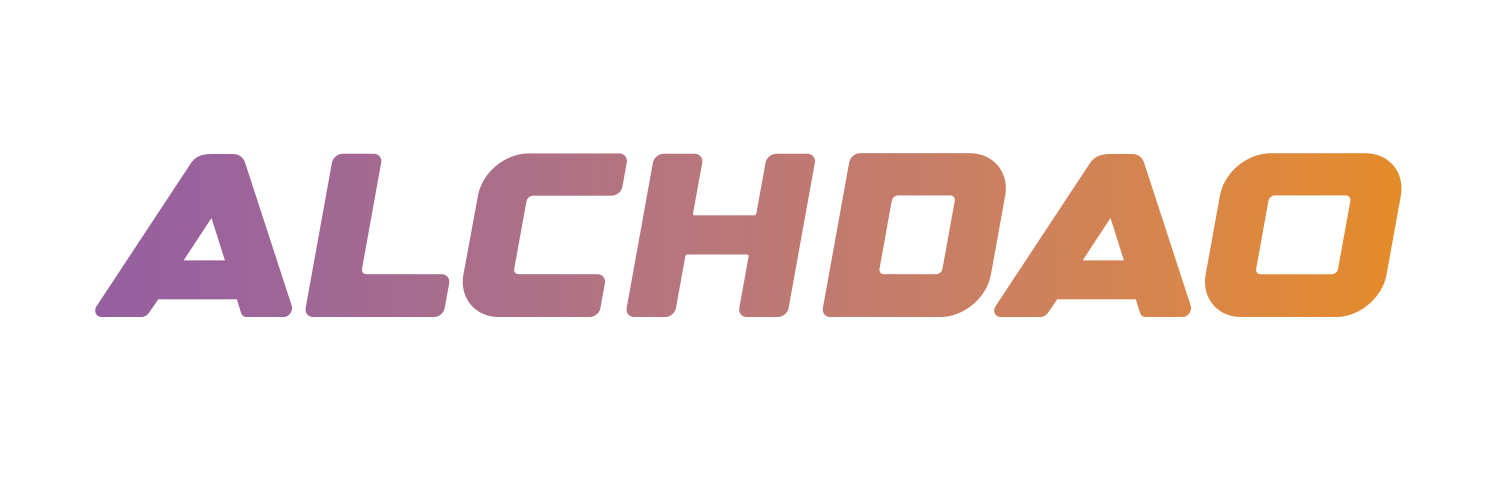
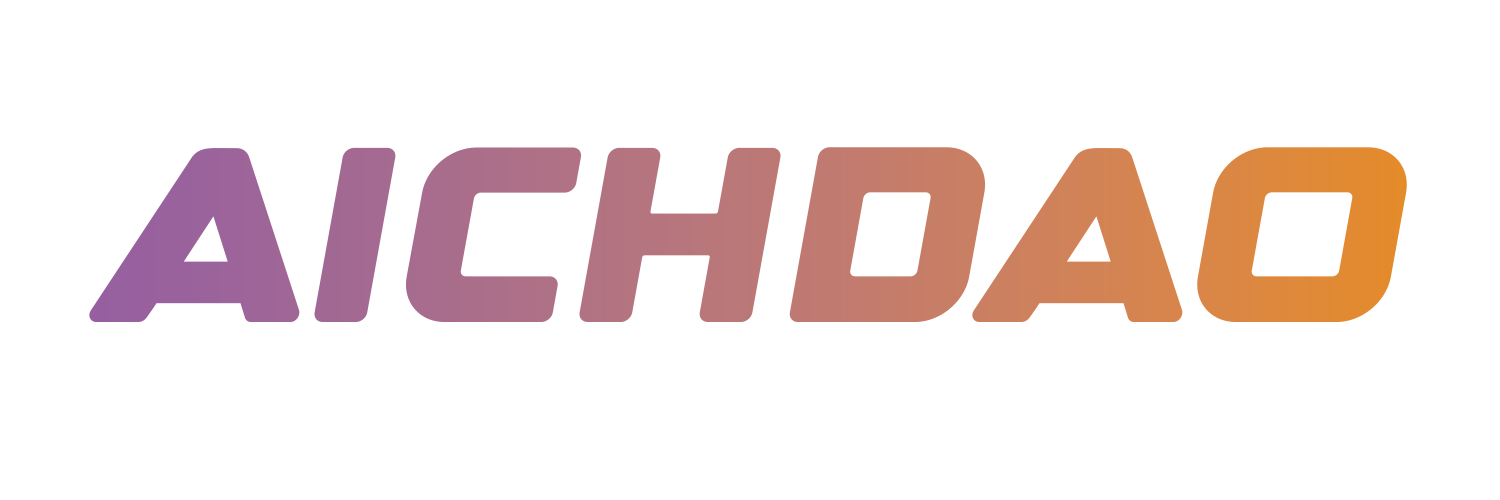
website

diff --git a/index.htm b/index.htm
@@ -8,10 +8,10 @@
     <meta http-equiv="X-UA-Compatible" content="IE=edge">
 
     <!-- Essential SEO -->
-    <title>ALCHDAO AI</title>
-    <meta name="description" content="Anon, always followed ALCHDAO. Celebrating the green candle spirit with our crypto community-driven. ALCHDAO blends meme culture with cutting-edge on-chain AI technology">
+    <title>AICHDAO AI</title>
+    <meta name="description" content="Anon, always followed AICHDAO. Celebrating the green candle spirit with our crypto community-driven. AICHDAO blends meme culture with cutting-edge on-chain AI technology">
     <link rel="image_src" href="android-chrome-512x512.png">
-    <meta name="keywords" content="ALCHDAO, meme token, cryptocurrency, crypto meme, solana token, community token, moon crypto">
+    <meta name="keywords" content="AICHDAO, meme token, cryptocurrency, crypto meme, solana token, community token, moon crypto">
 
     <!-- Open Graph Essential -->
 
@@ -100,9 +100,9 @@
         <div class="hero-content">
             <!--  -->
             <h1 data-aos="fade-up" data-aos-delay="300">
-                <span class="follow">Follow</span> <span class="fuji">ALCHDAO</span>
+                <span class="follow">Follow</span> <span class="fuji">AICHDAO</span>
             </h1>
-            <p data-aos="fade-up" data-aos-delay="400">Where MEME culture and AI entangle, use the power of ALCHDAO to help
+            <p data-aos="fade-up" data-aos-delay="400">Where MEME culture and AI entangle, use the power of AICHDAO to help
                 you trade.</p>
 
             <!-- <a href="#" class="cta-button" data-aos="fade-up" data-aos-delay="500">Join Us</a> -->
@@ -138,9 +138,9 @@
     <section id="about" class="about-section">
         <div class="hero-content2">
             <h1 data-aos="fade-up" data-aos-delay="300">
-                <span class="follow">Introducing</span> <span class="fuji">ALCHDAO</span>
+                <span class="follow">Introducing</span> <span class="fuji">AICHDAO</span>
             </h1>
-            <p data-aos="fade-up" data-aos-delay="400">ALCHDAO is an AI-powered crypto assistant that identifies
+            <p data-aos="fade-up" data-aos-delay="400">AICHDAO is an AI-powered crypto assistant that identifies
                 profitable
                 trades in real-time. It provides data-driven insights
                 to optimize strategies and maximize returns, making trading smarter and more efficient.
@@ -153,7 +153,7 @@
                 <div class="info-badge">
                     <h2>Origin</h2>
                 </div>
-                <p>ALCHDAO was created by a team of crypto experts and AI engineers with over 13+ years of experience
+                <p>AICHDAO was created by a team of crypto experts and AI engineers with over 13+ years of experience
                 </p>
             </div>
 
@@ -161,7 +161,7 @@
                 <div class="info-badge">
                     <h2>Expertise</h2>
                 </div>
-                <p>ALCHDAO flows algorithms and AI agents to drive alpha hunts, analyze market trends and sentiment,
+                <p>AICHDAO flows algorithms and AI agents to drive alpha hunts, analyze market trends and sentiment,
                     and
                     optimize portfolio management across short-, mid- & long-term, as well as high-risk strategies
                 </p>
@@ -171,7 +171,7 @@
                 <div class="info-badge">
                     <h2>Aim</h2>
                 </div>
-                <p>ALCHDAO will empower traders by simplifying crypto trading, maximizing profitability, and enabling
+                <p>AICHDAO will empower traders by simplifying crypto trading, maximizing profitability, and enabling
                     smarter,
                     data-driven decisions through advanced AI technology</p>
             </div>
@@ -184,11 +184,11 @@
     <div class="pop-container">
         <div class="pop-image-container">
             <div class="pop-image-wrapper">
-                <img src="fuji.png" alt="ALCHDAO" class="pop-hero-image" width="200">
+                <img src="fuji.png" alt="AICHDAO" class="pop-hero-image" width="200">
             </div>
         </div>
         <h1 class="pop-title">
-            <span aria-hidden="true">follow ALCHDAO</span>
+            <span aria-hidden="true">follow AICHDAO</span>
             <span class="sr-only"></span>
         </h1>
     </div>
@@ -217,7 +217,7 @@
                     </div>
 
                     <div class="copyright">
-                        <p>2024 ALCHDAO.net - follow ALCHDAO</p>
+                        <p>2024 AICHDAO.net - follow AICHDAO</p>
                     </div>
                 </div>
             </div>

diff --git a/script.js b/script.js
@@ -279,7 +279,7 @@ class Rain {
 
 
         const fujiPosition = r(0, row - 5);
-        const word = "ALCHDAO";
+        const word = "AICHDAO";
 
         for (let i = 0; i < row; ++i) {
             let c = new Char();
@@ -365,7 +365,7 @@ document.addEventListener('DOMContentLoaded', () => {
         const messageContainer = document.createElement('div');
         messageContainer.className = 'matrix-message';
         messageContainer.innerHTML = `
-            <div class="typing-text">Follow ALCHDAO  </div>
+            <div class="typing-text">Follow AICHDAO  </div>
         `;
         effectContainer.appendChild(messageContainer);
 
